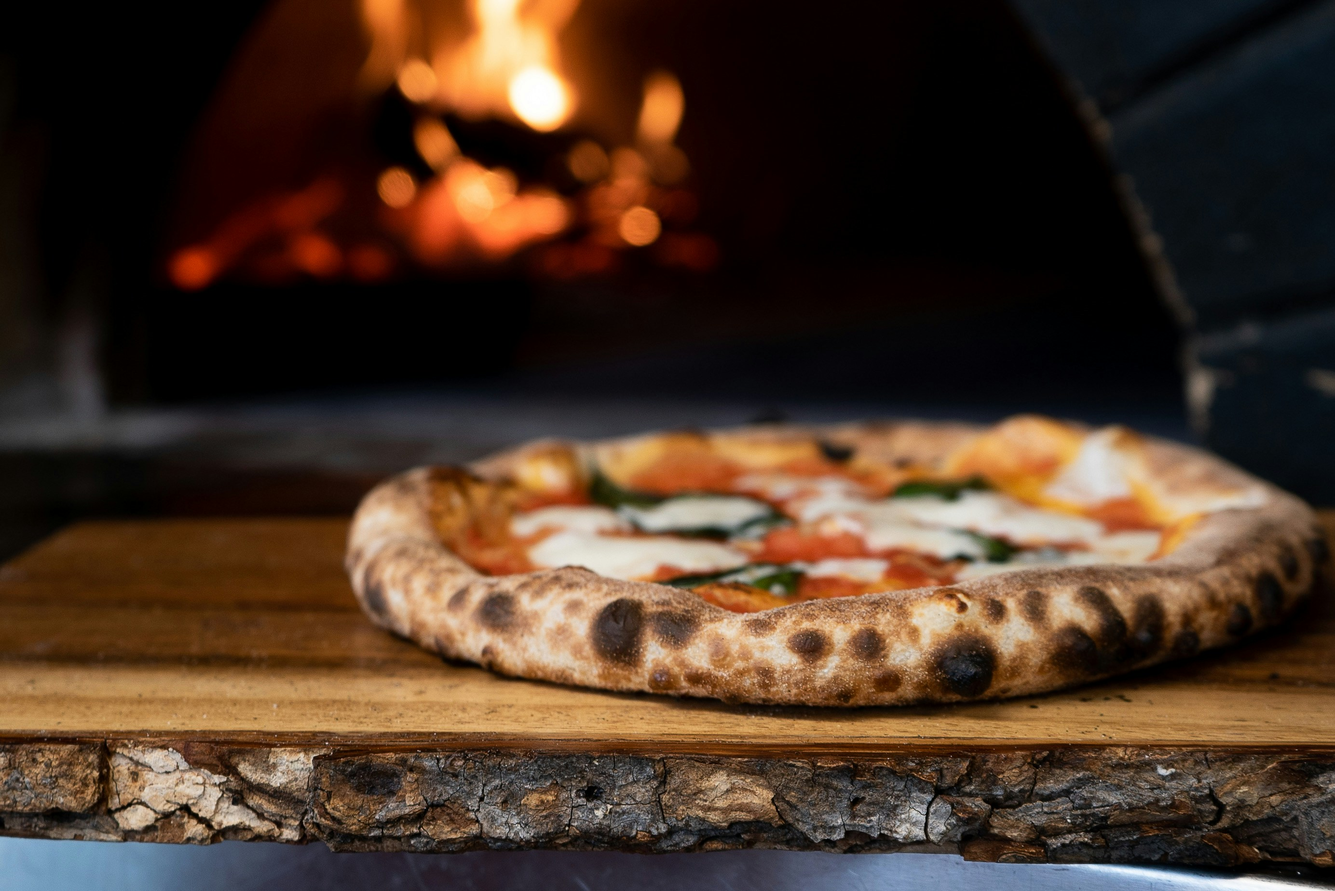
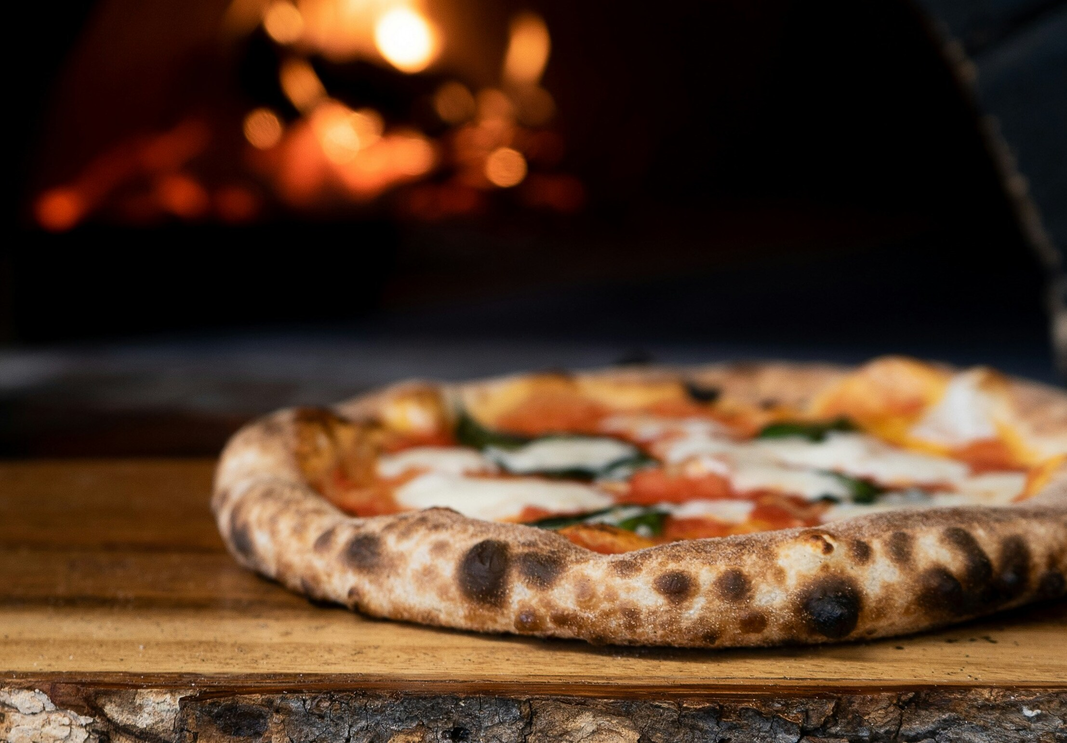
atualizar

diff --git a/pizzariasite/index.html b/pizzariasite/index.html
@@ -18,7 +18,7 @@
         <h1>NOSSO MENU</h1>
         <section id="container-card">
             <section class="card">
-                <img src="images/pages/index/pizza1.jpg" alt="pizza de margarita">
+                <img src="images/pages/index/pizza2menu.webp" alt="pizza de margarita">
                 <main class="descricao">
                     <h1>Margarita</h1>
                     <p>Tomate, mussarela</p>
@@ -30,7 +30,7 @@
             </section>
 
             <section class="card">
-                <img src="images/pages/index/pizza2.jpg" alt="pizza de calabresa">
+                <img src="images/pages/index/pizza1menu.webp" alt="pizza de calabresa">
                 <main class="descricao">
                     <h1>Calabresa</h1>
                     <p>Calabresa, mussarela</p>
@@ -42,7 +42,7 @@
             </section>
 
             <section class="card">
-                <img src="images/pages/index/pizza2.jpg" alt="pizza vegetariana">
+                <img src="images/pages/index/pizza3menu.webp" alt="pizza vegetariana">
                 <main class="descricao">
                     <h1>Vegetariana</h1>
                     <p>Folhas, mussarela</p>
@@ -61,7 +61,7 @@
             <p>Na Pete's Pizza, combinamos tradição com ingredientes frescos para criar pizzas deliciosas que unem as pessoas. Da nossa massa artesanal às coberturas saborosas, cada pizza é feita com amor e dedicação.</p>
         </section>
         <section id="imagem">
-            <img src="images/pages/index/pizza1.jpg" alt="imagem da Pizzaria">
+            <img src="images/pages/index/pizzasobrenos.webp" alt="imagem da Pizzaria">
         </section>
     </section>
 
@@ -70,7 +70,7 @@
         <section id="containerpessoas">
             <section class="avaliacao">
                 <section class="containerimgs">
-                    <img src="images/pages/sara.jpg" class="fotosavaliacoes" alt="Sara A.">
+                    <img src="images/pages/index/sara.webp" class="fotosavaliacoes" alt="Sara A.">
                     <img src="images/pages/index/star.png" class="estrela" alt="Estrelas de avaliação">
                 </section>
                 <section class="descricao">
@@ -80,7 +80,7 @@
             </section>
             <section class="avaliacao">
                 <section class="containerimgs">
-                    <img src="images/pages/michael.jpg" class="fotosavaliacoes" alt="Michael R.">
+                    <img src="images/pages/index/michael.webp" class="fotosavaliacoes" alt="Michael R.">
                     <img src="images/pages/index/star.png" class="estrela" alt="Estrelas de avaliação">
                 </section>
                 <section class="descricao">
@@ -90,7 +90,7 @@
             </section>
             <section class="avaliacao diferente">
                 <section class="containerimgs">
-                    <img src="images/pages/laura.jpg" class="fotosavaliacoes" alt="Laura M.">
+                    <img src="images/pages/index/laura.webp" class="fotosavaliacoes" alt="Laura M.">
                 </section>
                 <section class="descricao">
                     <img src="images/pages/index/star.png" class="estrela" alt="Estrelas de avaliação">
@@ -108,21 +108,21 @@
                 SIGA-NOS
             </h1>
             <section id="iconsmidias">
-                <img src="images/pages/instagram.svg" alt="Instagram">
-                <img src="images/pages/tiktok.svg" alt="Tiktok">
-                <img src="images/pages/youtube.svg" alt="Youtube">
+                <img src="images/pages/index/instagram.svg" alt="Instagram">
+                <img src="images/pages/index/tiktok.svg" alt="Tiktok">
+                <img src="images/pages/index/youtube.svg" alt="Youtube">
             </section>
         </section>
         <section>
             <h1>PRECISA DE SUPORTE?</h1>
             <ul>
                 <li>
-                    <a href="">
+                    <a href="#">
                         <img src="#" alt="balão de fala">
                         <p>Chat Online</p>
                         <img src="#" alt="redirecionamento">
                     </a>
-                    <a href="">
+                    <a href="#">
                         <img src="#" alt="Telefone">
                         <p>Fale Conosco</p>
                         <img src="#" alt="redirecionamento">

diff --git a/pizzariasite/css/pages/index/partials/nossomenu.css b/pizzariasite/css/pages/index/partials/nossomenu.css
@@ -20,14 +20,14 @@
 }
 
 .card {
-    max-width: 230px;
+    width: 170px;
     padding: 5px;
     margin-bottom: 5px;
 }
 
 .card > img {
-    max-width: 230px;
-    height: 100px;
+    width: 170px;
+    height: 150px;
     border-radius: 10px;
 }
 
@@ -50,7 +50,9 @@
 }
 
 .adicionarcarrinho {
+    display: block;
     margin: auto;
+    width: 100%;
     background-color: red;
     border: none;
     font-family: var(--padrao);

diff --git a/pizzariasite/css/pages/index/partials/sobrenos.css b/pizzariasite/css/pages/index/partials/sobrenos.css
@@ -8,7 +8,7 @@
     padding: 20px;
 }
 #historia, #imagem {
-    max-width: 480px;
+    max-width: 430px;
 }
 
 #historia > h1 {
